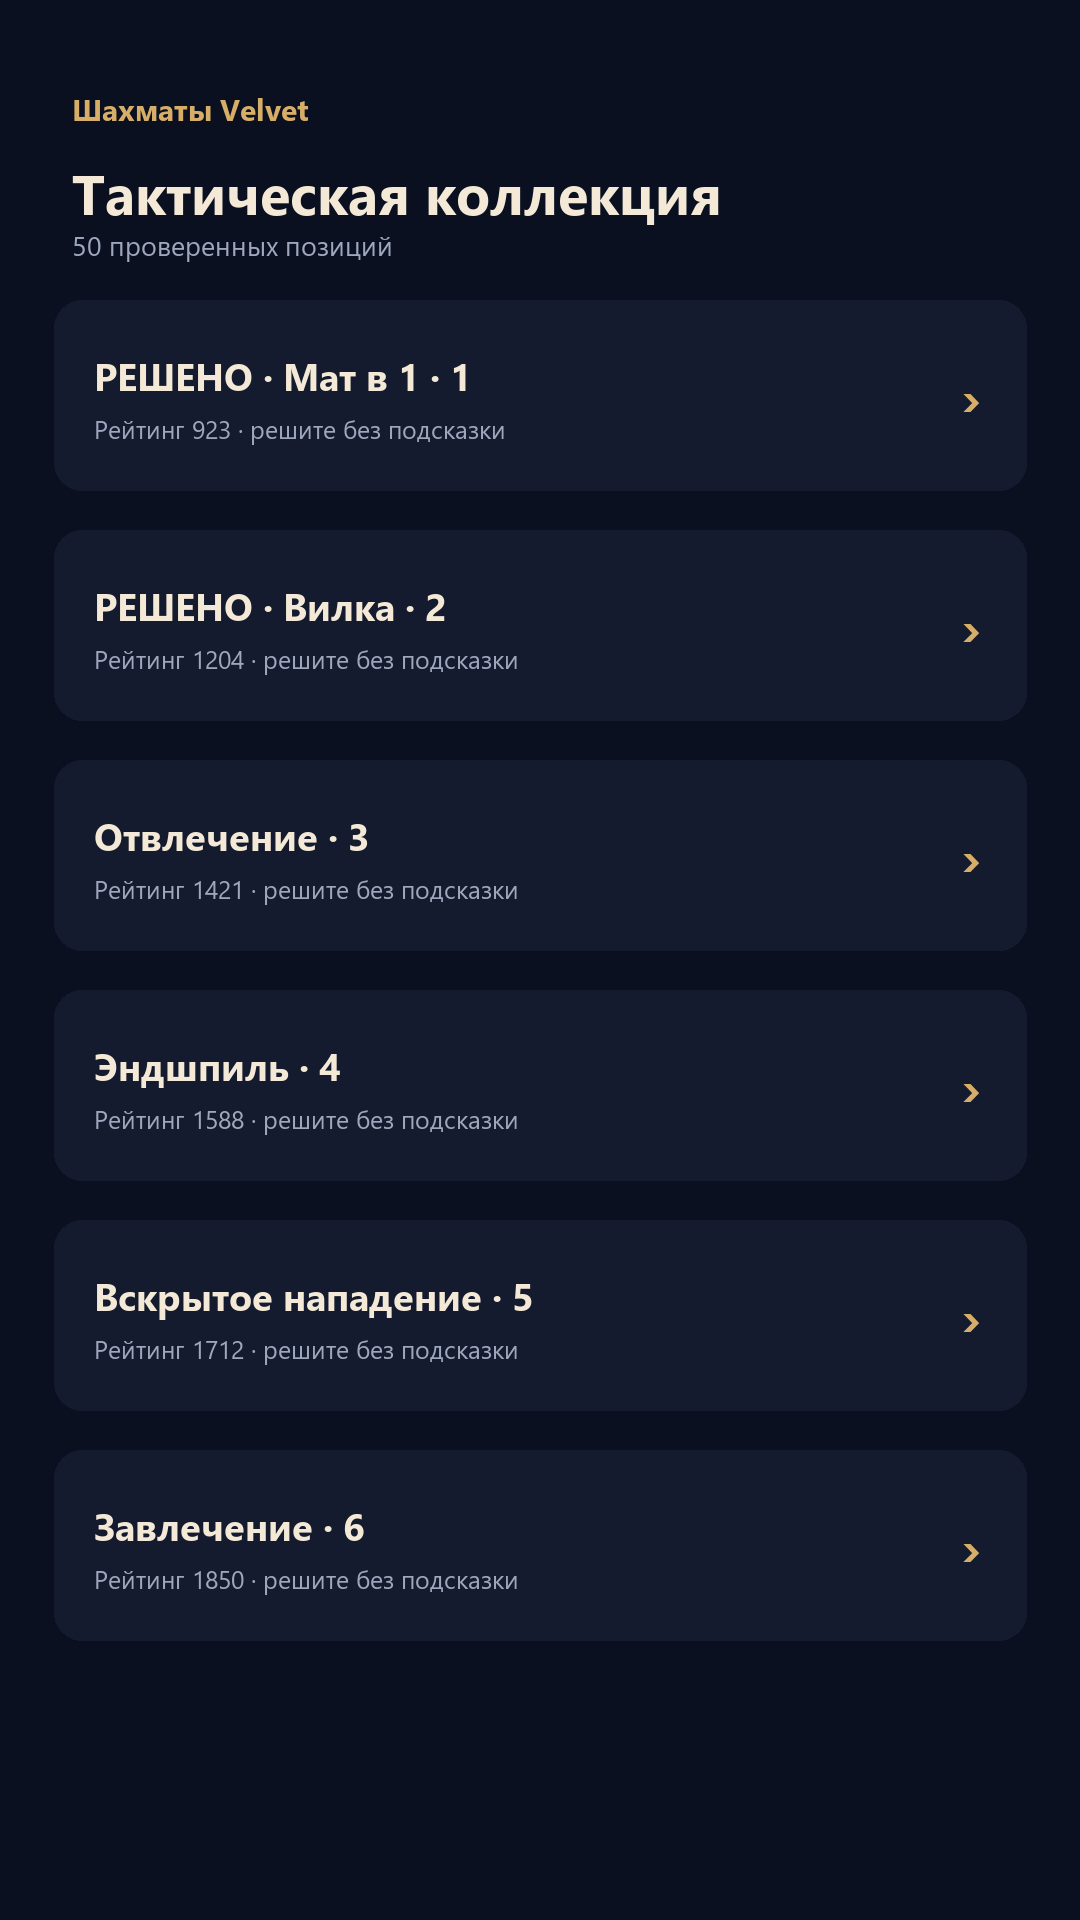
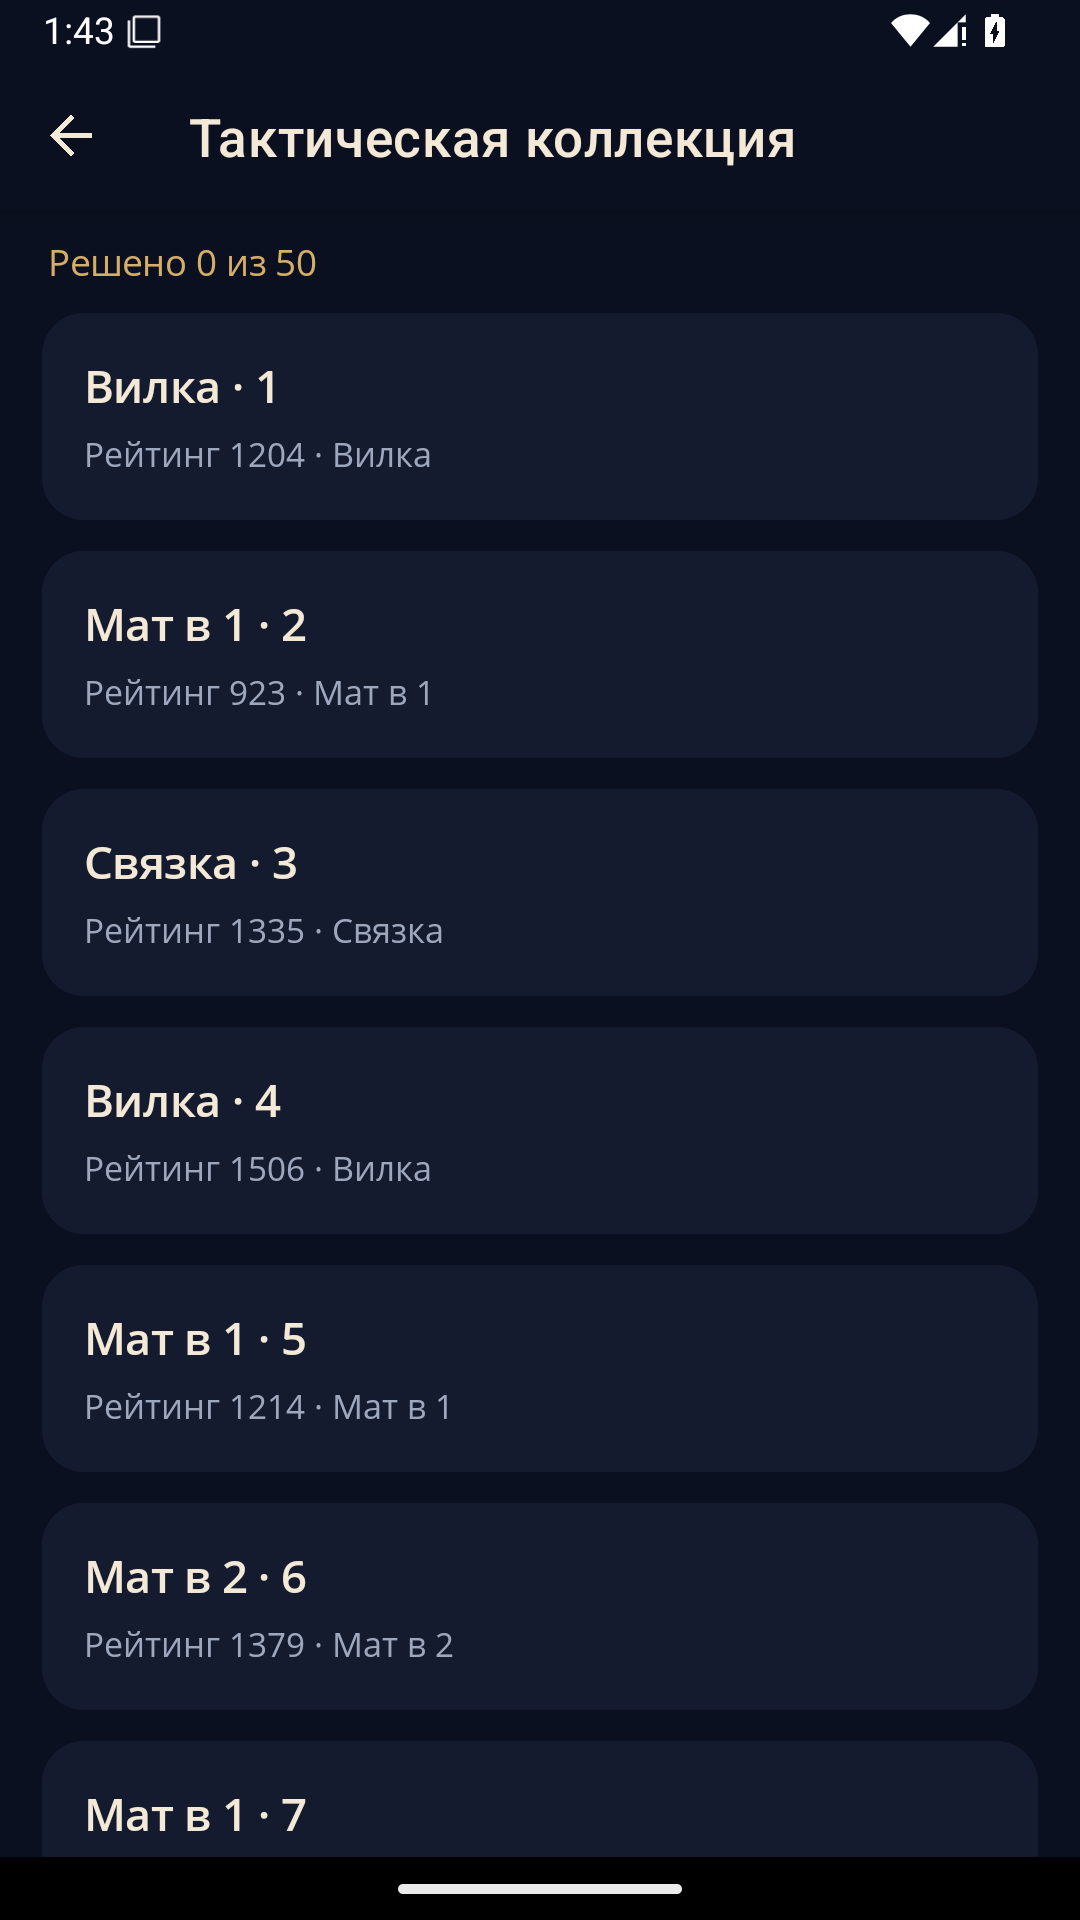
fix: verify dark Android UI with real store captures

diff --git a/store/rustore/render_assets.py b/store/rustore/render_assets.py
@@ -3,7 +3,9 @@ from PIL import Image, ImageDraw, ImageFont, ImageFilter
 
 ROOT = Path(__file__).resolve().parents[2]
 OUT = ROOT / "store" / "rustore"
-SHOTS = OUT / "screenshots"
+# Visual mockups are useful for layout experiments, but must never overwrite the
+# real Android captures shipped to RuStore.
+SHOTS = ROOT / "artifacts" / "store-mockups"
 GRAPHICS = OUT / "graphics"
 SHOTS.mkdir(parents=True, exist_ok=True)
 GRAPHICS.mkdir(parents=True, exist_ok=True)
@@ -129,4 +131,4 @@ for i,line in enumerate(wrap(d,"Вилка: конь атакует короля
 button(d,1640,"Следующая задача",GOLD,"#101522")
 save(img,"06_puzzle_solution.png")
 
-print("Rendered icon and 6 screenshots")
+print(f"Rendered icon and 6 non-production mockups in {SHOTS}")

diff --git a/src/VelvetChess.App/Pages/SettingsPage.cs b/src/VelvetChess.App/Pages/SettingsPage.cs
@@ -8,6 +8,7 @@ public sealed class SettingsPage : ContentPage
 
     public SettingsPage(AppStateService state)
     {
+        BackgroundColor = Color.FromArgb("#0B1020");
         _state = state; Title = "Настройки";
         var coordinates = SettingSwitch("Координаты доски", "Показывать буквы и цифры у полей", state.ShowCoordinates, value => state.ShowCoordinates = value);
         var haptics = SettingSwitch("Тактильный отклик", "Короткий отклик после хода", state.HapticsEnabled, value => state.HapticsEnabled = value);

diff --git a/src/VelvetChess.App/Pages/GamePage.cs b/src/VelvetChess.App/Pages/GamePage.cs
@@ -21,6 +21,7 @@ public sealed class GamePage : ContentPage
 
     public GamePage(ChessAi ai, AppStateService state)
     {
+        BackgroundColor = Color.FromArgb("#0B1020");
         _ai = ai; _state = state; _session = state.LoadGame(); Title = "Локальная партия";
         foreach (var level in Enum.GetValues<Difficulty>()) _difficulty.Items.Add(DifficultyProfile.For(level).DisplayName);
         _difficulty.SelectedIndex = (int)state.Difficulty;

diff --git a/src/VelvetChess.App/MainPage.cs b/src/VelvetChess.App/MainPage.cs
@@ -11,6 +11,7 @@ public sealed class MainPage : ContentPage
 
     public MainPage()
     {
+        BackgroundColor = Color.FromArgb("#0B1020");
         Title = "Шахматы Velvet";
         _play.Clicked += async (_, _) => await Shell.Current.GoToAsync(nameof(GamePage));
         var puzzles = new Button { Text = "Тактические задачи", BackgroundColor = Color.FromArgb("#6E183E"), TextColor = Colors.White };

diff --git a/src/VelvetChess.App/Pages/PuzzlePlayPage.cs b/src/VelvetChess.App/Pages/PuzzlePlayPage.cs
@@ -19,6 +19,7 @@ public sealed class PuzzlePlayPage : ContentPage, IQueryAttributable
 
     public PuzzlePlayPage(PuzzleRepository repository, AppStateService state)
     {
+        BackgroundColor = Color.FromArgb("#0B1020");
         _repository = repository; _state = state; Title = "Решение задачи";
         _board.ShowCoordinates = state.ShowCoordinates;
         _board.MoveRequested += OnMove;

diff --git a/src/VelvetChess.App/Pages/PuzzlesPage.cs b/src/VelvetChess.App/Pages/PuzzlesPage.cs
@@ -12,6 +12,7 @@ public sealed class PuzzlesPage : ContentPage
 
     public PuzzlesPage(PuzzleRepository repository, AppStateService state)
     {
+        BackgroundColor = Color.FromArgb("#0B1020");
         _repository = repository; _state = state; Title = "Тактическая коллекция";
         _list.ItemTemplate = new DataTemplate(() =>
         {

diff --git a/docs/BUILD-STATUS.md b/docs/BUILD-STATUS.md
@@ -11,7 +11,8 @@
 - `net9.0-windows10.0.19041.0` Release: успешно, 0 предупреждений, 0 ошибок.
 - Windows Release-приложение запускается и остаётся стабильно активным после старта.
 - Windows UI Automation открывает маршруты локальной партии, настроек, каталога и первой задачи; на экране задачи доступна кнопка полного решения.
-- Скриншоты RuStore: 6 × PNG, 1080×1920, каждый меньше 3 МБ.
+- Android API 35 emulator smoke-test устанавливает Release APK, проходит шесть ключевых состояний UI и подтверждает отсутствие `AndroidRuntime`-падений.
+- Скриншоты RuStore: 6 фактических Android PNG 1080×1920, каждый меньше 3 МБ; фон и системные панели проверены в фирменной тёмной теме.
 - Автоматический RuStore preflight проверяет идентификатор/версию, контакты, графику, тесты и подписи APK/AAB.
 - `Set-ReleaseOwnerData.ps1` синхронизирует карточку, Markdown-политику и автономную HTTPS-страницу, экранируя пользовательские значения.
 - Генератор данных владельца проверен на чистом клоне со спецсимволами и URL-параметрами; строгий preflight и Windows Release-сборка после генерации успешны.
@@ -25,6 +26,7 @@
 - Package ID: `ru.velvetchess.game`; versionCode: 1; versionName: 1.0.0; minSdk: 21; targetSdk: 35.
 - В манифесте нет доступа к интернету, контактам, файлам, камере, микрофону или геолокации.
 - Тестовый APK подписан стандартным debug-сертификатом и предназначен только для установки/QA, не для RuStore.
+- APK установлен и запущен на эмуляторе Android API 35 с экраном 1080×1920; главная, партия, задачи, полное решение и настройки проверены через UI Automator.
 
 Для повторной локальной сборки:
 

diff --git a/docs/QA.md b/docs/QA.md
@@ -15,6 +15,16 @@
 - Решённые задачи, число попыток и общая статистика сохраняются после перезапуска.
 - Настройки координат, тактильного отклика и подтверждения новой партии применяются сразу и сохраняются после перезапуска.
 - Сброс прогресса удаляет сохранённую партию и статистику задач, но сохраняет пользовательские настройки.
+
+## Android smoke-test и скриншоты RuStore
+
+На запущенном Android-устройстве или эмуляторе 1080×1920 выполните:
+
+```powershell
+.\scripts\Capture-AndroidStoreScreenshots.ps1 -PackagePath C:\path\VelvetChess.apk
+```
+
+Сценарий устанавливает APK, очищает тестовые данные, проходит главную, локальную партию, каталог, первую задачу, показ решения и настройки, сохраняет шесть фактических PNG в `store/rustore/screenshots` и проверяет `AndroidRuntime` на падения.
 - Повреждённое сохранение не приводит к падению: приложение запускается с безопасным состоянием по умолчанию.
 - Интерфейс проверен на малом телефоне, планшете, светлой/тёмной системной теме и повороте экрана.
 - Проверены холодный старт, сворачивание/возврат и отсутствие сети.

diff --git a/docs/COMPLETION-AUDIT.md b/docs/COMPLETION-AUDIT.md
@@ -15,7 +15,7 @@
 | Сохранение | Партия, сложность, настройки, статистика и прогресс задач | Независимый `UserStateStore`, тесты повреждённых данных; iOS Privacy Manifest обновлён |
 | Производительность | `GraphicsView`, фоновый ИИ, alpha-beta, iterative deepening, bounded cache | Release linking/AOT Android пройдены |
 | Графика | Бренд-арт, адаптивная доска, собственная иконка, Noto chess font | Android assets успешно скомпилированы; лицензии сохранены |
-| RuStore | Карточка, Markdown/HTML policy, release notes, checklist, icon и 6 скриншотов | Синхронный owner-data генератор; 1080×1920 PNG до 3 МБ |
+| RuStore | Карточка, Markdown/HTML policy, release notes, checklist, icon и 6 скриншотов | Синхронный owner-data генератор; фактические Android API 35 кадры 1080×1920 до 3 МБ |
 | Git и релиз | `main`, CI, gitignore, безопасная воспроизводимая подпись | Сквозной dry-run release-ключом, preflight APK/AAB и GitHub Actions workflow |
 | Будущий онлайн | Транспортный контракт и серверный roadmap | `IOnlineMatchService`, `docs/ONLINE-ROADMAP.md` |
 

diff --git a/store/rustore/CHECKLIST.md b/store/rustore/CHECKLIST.md
@@ -9,7 +9,8 @@
 - [ ] Выполнить `scripts/Test-RuStoreReadiness.ps1` без `AllowOwnerPlaceholders` и устранить все ошибки.
 - [ ] Проверить установку release-сборки на реальном Android-устройстве.
 - [ ] Пройти все сценарии из `docs/QA.md`.
-- [ ] Сделать финальные скриншоты именно с release-сборки на реальном Android-устройстве; текущие кадры подготовлены в нужном формате и сверены с UI-макетом.
+- [x] Снять фактические экраны Android-приложения на эмуляторе API 35 в формате 1080×1920 автоматизированным smoke-test.
+- [ ] Повторить установочный прогон release-сборки на реальном Android-устройстве перед отправкой.
 - [ ] Проверить: 1–10 скриншотов, PNG/JPG, до 3 МБ, 9:16, максимум 2160×3840.
 - [x] Экспортировать иконку 512×512 PNG весом до 3 МБ.
 - [ ] Разместить политику конфиденциальности на публичном HTTPS-адресе.

diff --git a/store/rustore/screenshots/README.md b/store/rustore/screenshots/README.md
@@ -1,0 +1,11 @@
+# Скриншоты Android
+
+Шесть PNG сняты непосредственно с Release-конфигурации приложения на чистом Android API 35 emulator с физическим framebuffer 1080×1920. В кадрах сохранены системные status/navigation bars; изображения не являются нарисованными UI-макетами.
+
+Воспроизводимый smoke-test:
+
+```powershell
+.\scripts\Capture-AndroidStoreScreenshots.ps1 -PackagePath C:\path\VelvetChess.apk
+```
+
+Сценарий очищает тестовые данные приложения, проходит ключевые экраны и завершает работу ошибкой при наличии `FATAL EXCEPTION` в `AndroidRuntime`.
